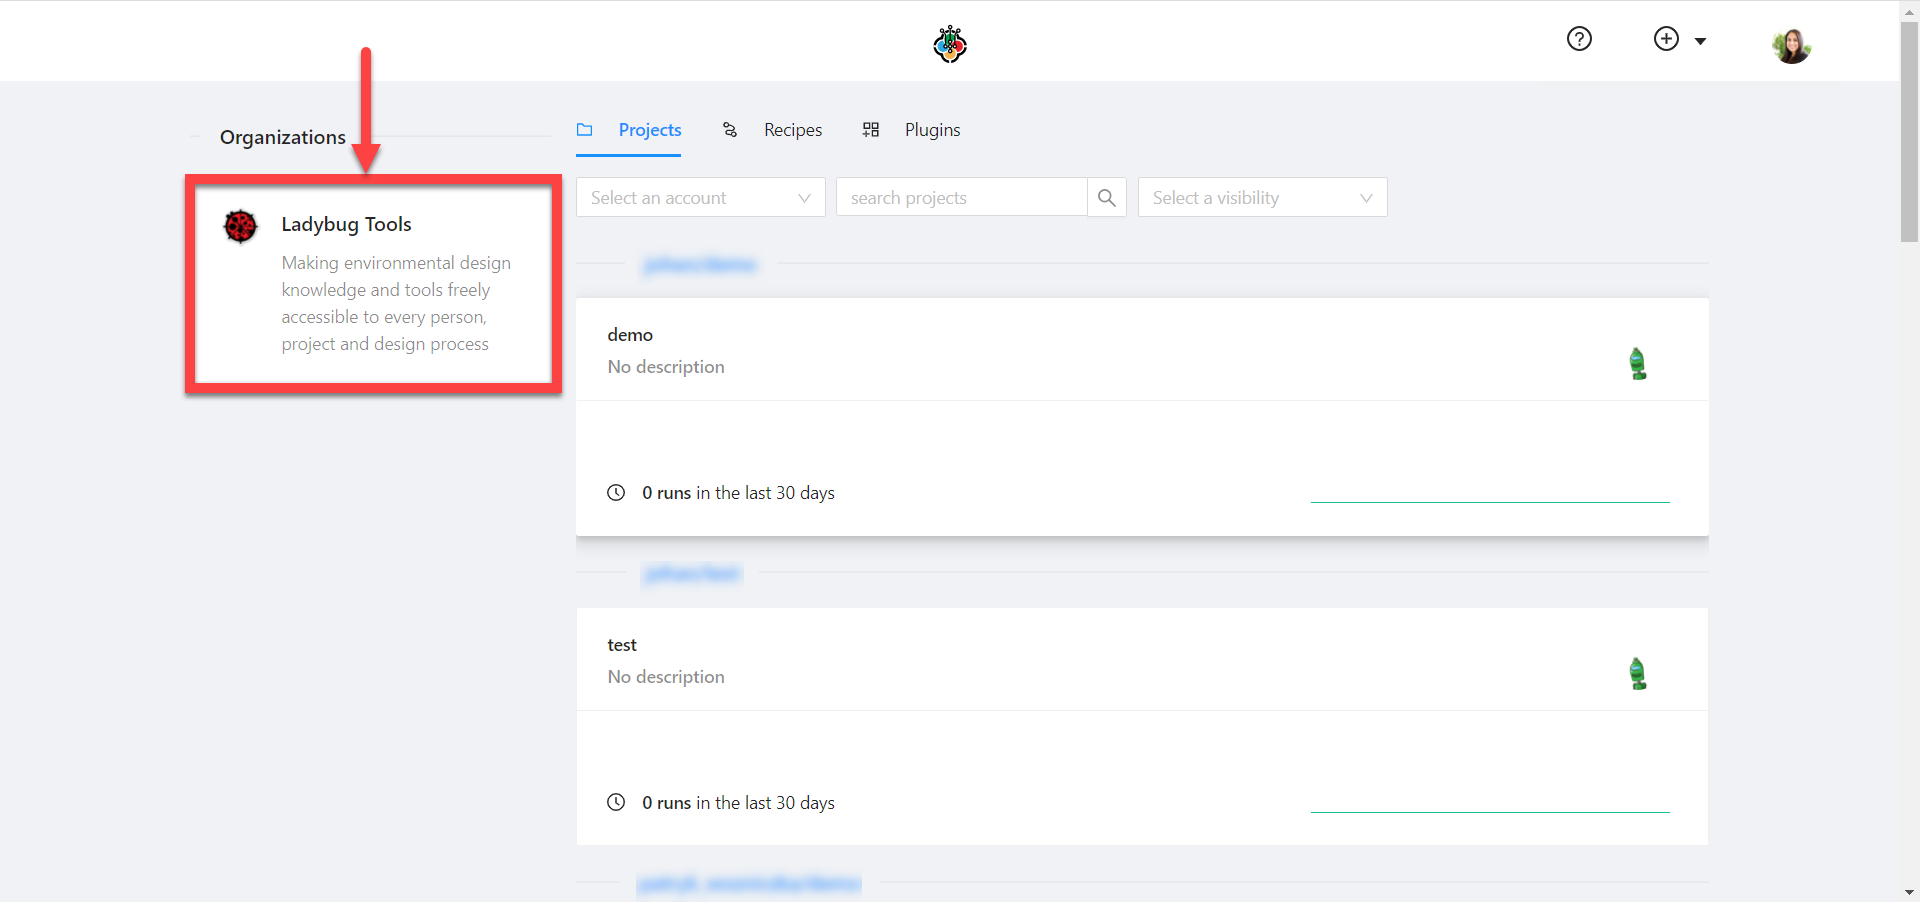
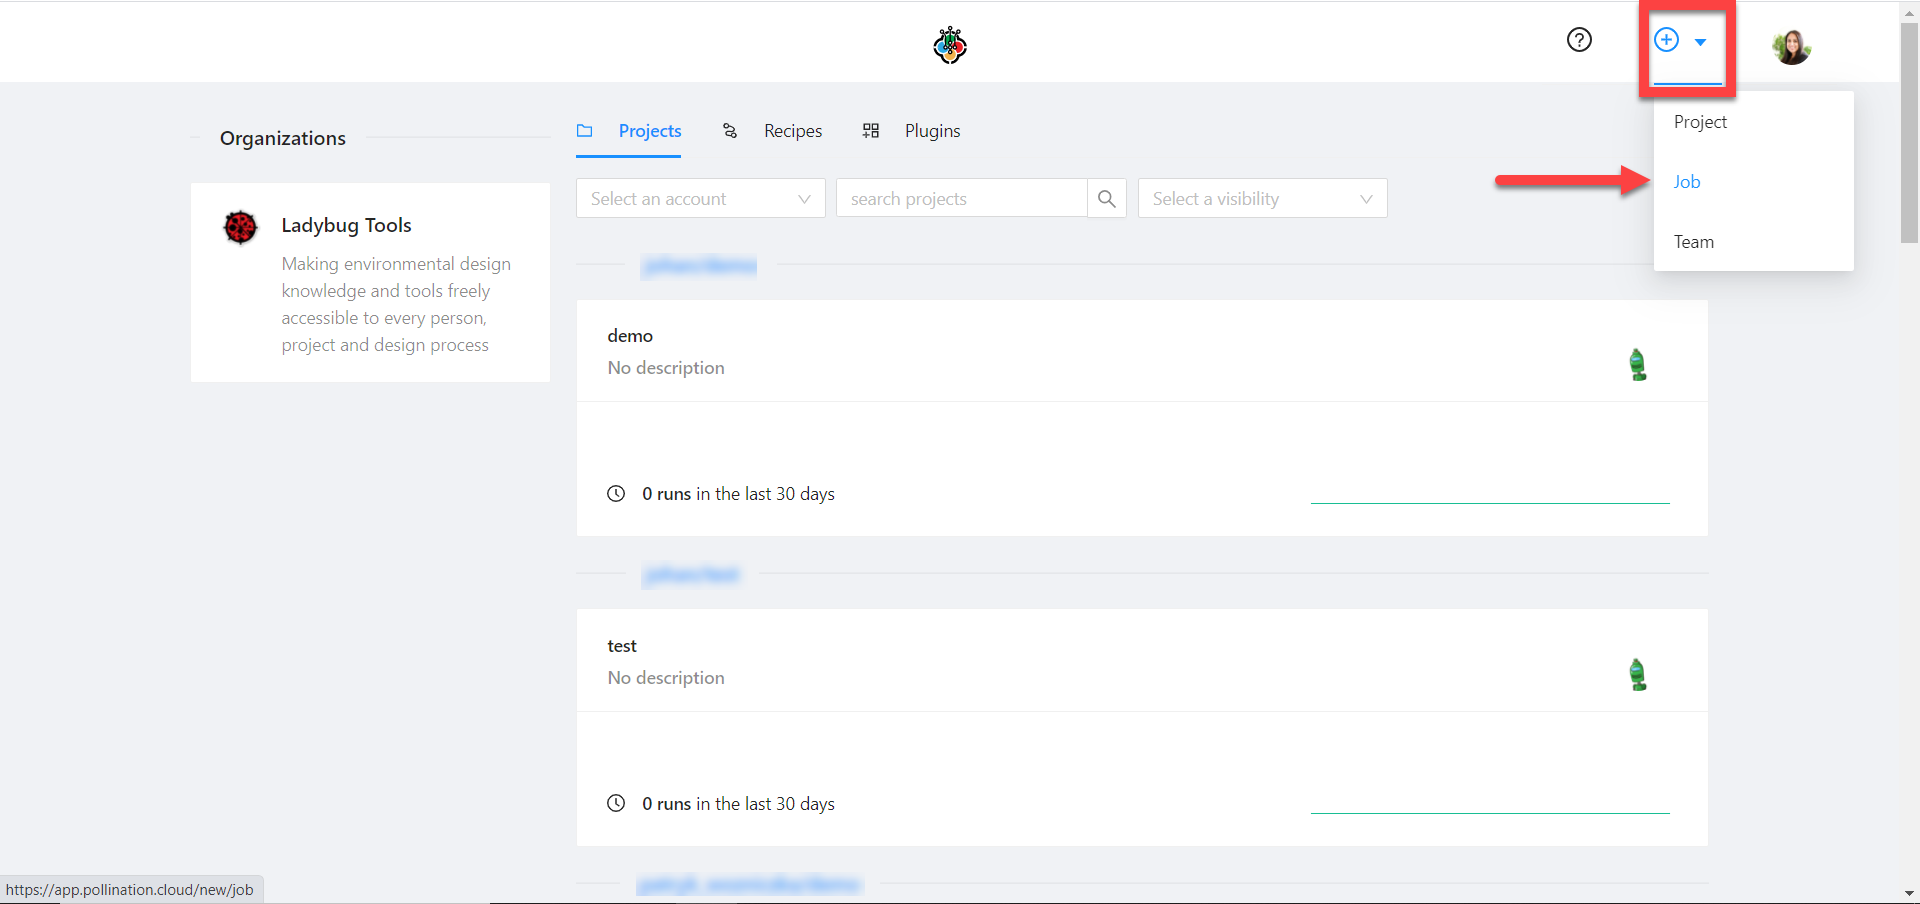
GitBook: [master] 5 pages and 13 assets modified

diff --git a/create-projects-and-jobs/add-a-job.md b/create-projects-and-jobs/add-a-job.md
@@ -4,5 +4,21 @@
 
 Click on the plus symbol on the upper right corner of the screen and select Job from the dropdown.
 
-![](../.gitbook/assets/image%20%289%29.png)
+![](../.gitbook/assets/image%20%2811%29.png)
+
+## Step 2
+
+Fill in the job information, select your organization, and project.  
+
+![](../.gitbook/assets/image%20%285%29.png)
+
+## Step 3
+
+Select a recipe. _NOTE: Only recipes that you've added to a project will show up in the drop down. You may also see multiple versions of the same recipe. A higher version number will indicate a more current version._
+
+![](../.gitbook/assets/image%20%2817%29.png)
+
+\_\_
+
+ 
 

diff --git a/account-setup/add-a-member-to-your-account.md b/account-setup/add-a-member-to-your-account.md
@@ -11,13 +11,13 @@ description: >-
 
 On the left side of your screen, on the main page, click on your organization. 
 
-![](../.gitbook/assets/image%20%2811%29.png)
+![](../.gitbook/assets/image%20%2813%29.png)
 
 ## Step 2
 
 Click on Members tab.
 
-![](../.gitbook/assets/image%20%285%29.png)
+![](../.gitbook/assets/image%20%286%29.png)
 
 ## Step 3
 
@@ -29,7 +29,7 @@ Click on New Member to search by Username.  Users must create a Pollination Acco
 
 Select the Role dropdown to assign permissions as a member or owner.
 
-![](../.gitbook/assets/image%20%2814%29.png)
+![](../.gitbook/assets/image%20%2816%29.png)
 
 ## Step 5
 

diff --git a/create-projects-and-jobs/add-a-project.md b/create-projects-and-jobs/add-a-project.md
@@ -4,13 +4,13 @@
 
 Click on the plus symbol on the upper right corner of the screen and select Project from the dropdown.
 
-![](../.gitbook/assets/image%20%286%29.png)
+![](../.gitbook/assets/image%20%287%29.png)
 
 ## Step 2
 
 Fill in the details and click  on Create. _NOTE: Public projects will be visible on Pollination, you must select Private to keep them hidden._
 
-![](../.gitbook/assets/image%20%2812%29.png)
+![](../.gitbook/assets/image%20%2814%29.png)
 
 ## Step 3
 

diff --git a/account-setup/create-a-pollination-account.md b/account-setup/create-a-pollination-account.md
@@ -4,7 +4,7 @@
 
 During early access, the link to register is by invite only. If you have the link, you can create a Pollination account by filling in your information. 
 
-![](../.gitbook/assets/image%20%2813%29.png)
+![](../.gitbook/assets/image%20%2815%29.png)
 
 ## Step 2
 

diff --git a/create-projects-and-jobs/create-teams.md b/create-projects-and-jobs/create-teams.md
@@ -4,5 +4,5 @@
 
 Click on the plus symbol on the upper right corner of the screen and select Team from the dropdown.
 
-![](../.gitbook/assets/image%20%287%29.png)
+![](../.gitbook/assets/image%20%288%29.png)
 
